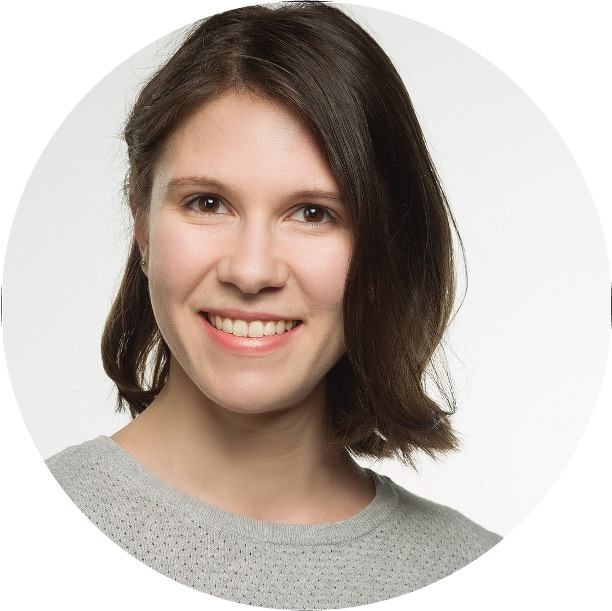
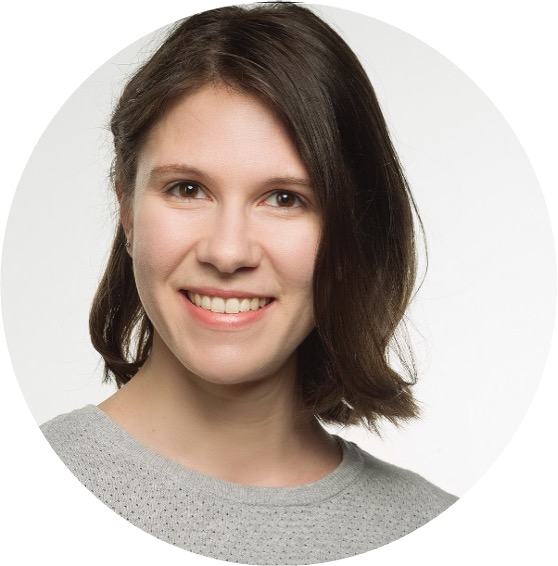
changes to main image

diff --git a/docs/index.md b/docs/index.md
@@ -6,12 +6,12 @@ hide:
 
 # About me
 
-![Image title](./assets/images/cv-2.jpg){ align=left width=300 }
+![Image title](./assets/images/cv-2.jpg){ align=left width=250 }
 
 Add text...
 
-**Research Interests** 
 
+**Research Interests** 
 - ...
 - ...
 - ...
